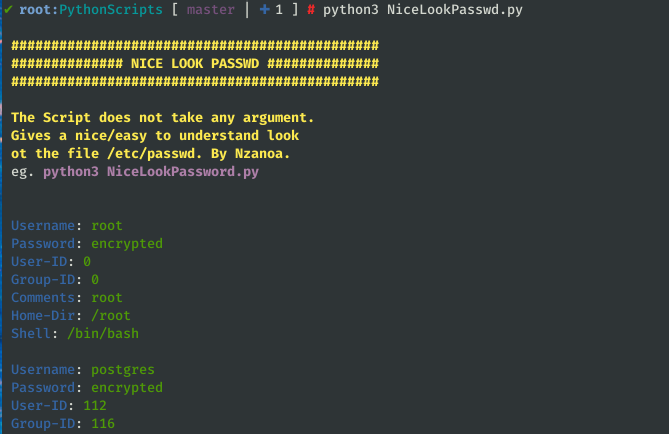
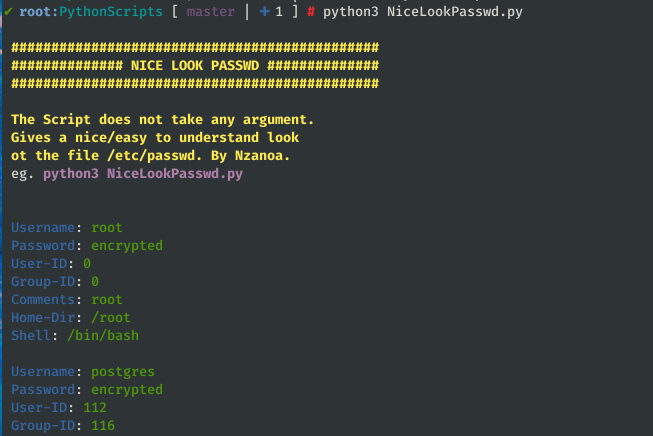
Fix screenshot issue

diff --git a/PythonScripts/NiceLookPasswd.py b/PythonScripts/NiceLookPasswd.py
@@ -18,7 +18,7 @@ header = """[[YELLOW]]
  The Script does not take any argument.
  Gives a nice/easy to understand look
  ot the file /etc/passwd. By Nzanoa.[[NC]]
- eg. [[LPURPLE]]python3 NiceLookPassword.py[[NC]]
+ eg. [[LPURPLE]]python3 NiceLookPasswd.py[[NC]]
 
 """
 # Replace color by ANSI COLOR CODE
